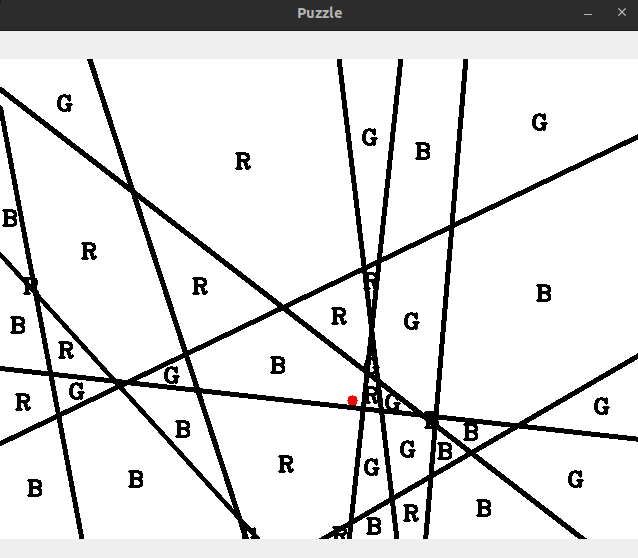
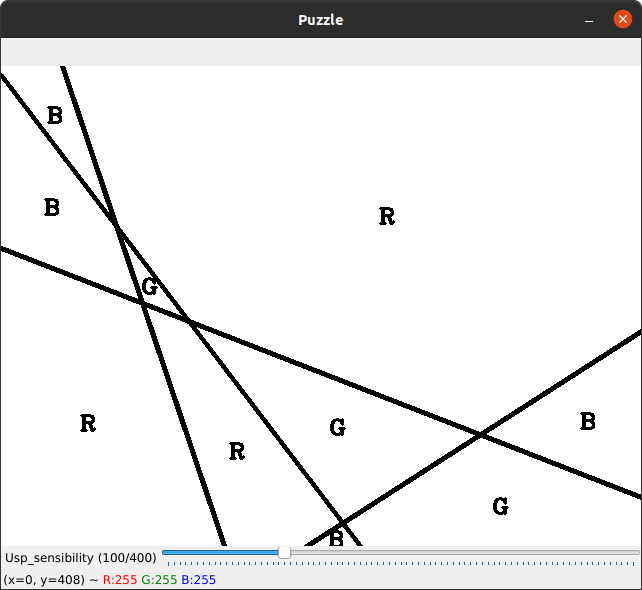
Tweaked a few things on readme

diff --git a/README.md b/README.md
@@ -1,6 +1,6 @@
 
 # AR Paint - Augmented Reality Paint
-A program developed to the class of PSR of University of Aveiro which allows to draw with a object using a webcam by detecting the object's color.
+A program developed to the PSR course of University of Aveiro which allows to draw with a object using a webcam by detecting the object's color.
 
 
 ## Description
@@ -9,10 +9,19 @@ This is a program  allows the user draw on a canvas with an object using a webca
 There's also the possibility to display the current painting on the camera window.
 
 #### Calibration tool
-The program as calibration tool( color_segmenter.py) that allows to filter the color of the webcam in order to track the object.
+The program has calibration tool( color_segmenter.py) that allows to filter the color of the webcam in order to track the object. 
+The user can also use the mouse and by clicking it will automatically ajust the filter of color on the pixel he click.
+
 It will write a json file, which the main will read and identify the object by the color.
 Also when starting, the script's trackbars will be set at the position of the previous calibration. If there are no prior calibrations, the script uses default values.
 
+This script should be run atleast once before executing the main program, to set a color for tracking.
+
+####Canvas
+
+This would be the most basic mode to run this program, its supposed to emulate a simplified version of paint, nothing more.
+
+![](images/canvas.png)
 
 #### Puzzle
 The gamemode puzzle generate a random pattern, that the user must fill the blank spaces with the right color, then gets an evaluation about the score points doing the puzzle.
@@ -20,19 +29,19 @@ The score points system you start with 0%, when painting the right space you gai
 
 Also the user can choose the difficulty by increasing the number of lines generated by the programm.
 
-(como é que escolhe a dificuldade??)
+It comes also with a trackbar of the sensibility of use shake prevention(usp), so the user can define more or less shake prevention
 
 ![](images/puzzle.png)
 
-#### Polygon drawing (check)
 
-The user can draw squares, circles or elipses on the white board. To draw a square you just need to press the key 's' move the mouse to give lenght and release the key 's' end the square (?)
-To draw a circle you type the key 'o' and the radius of the circle it will be the point of centroide when we press the key '0' to the position of the centroide when we release the key 'o'
+#### Polygon drawing
 
-#### Drawing on camera (check)
+The user can draw squares, circles or elipses on the white board. To draw any shape the user needs to press the corresponding shape key ('p','e','o),then click MRB on the final position or move the object on the camera to alter the shape geometry and press the key again to finish drawing the shape.
 
-Beside the user can draw on the white board, the user can also draw on the webcam that is using to track the centroide
 
+#### Drawing on camera
+
+Beside the user can draw on the white board, the user can also draw on the webcam that is using to track the centroide, by using the key 'v'.
 
 
 #### Use shake prevention
@@ -41,6 +50,8 @@ The user can call this function to prevent getting a line drawed if the object d
 ```bash
 main.py -j limits.json -usp 
 ```
+
+
 # Installation
 
 #### Requirements: 
@@ -61,12 +72,12 @@ git clone https://github.com/brunofavs/PSR-AR-Paint.git
 
 ## How to run
 
-To run the program you must open the terminal on the git that you clone, then you can type "-h" to get the information about all the comammds
+To run the program you must navite on the terminal to the remote repository path, then you can type "-h" to get the information about all the comammds
 
 ```bash
 main.py -h 
 ```
-#### To start the program 
+#### To start the main program 
 
 ```bash
 main.py -j limits.json
@@ -87,7 +98,7 @@ main.py -j limits.json
   
 ###### To draw a shape :
 
-- key ('s') to draw a square
+- key ('p') to draw a square
 - key ('e') to draw a elipse
 - key ('o') to draw a circle
 
